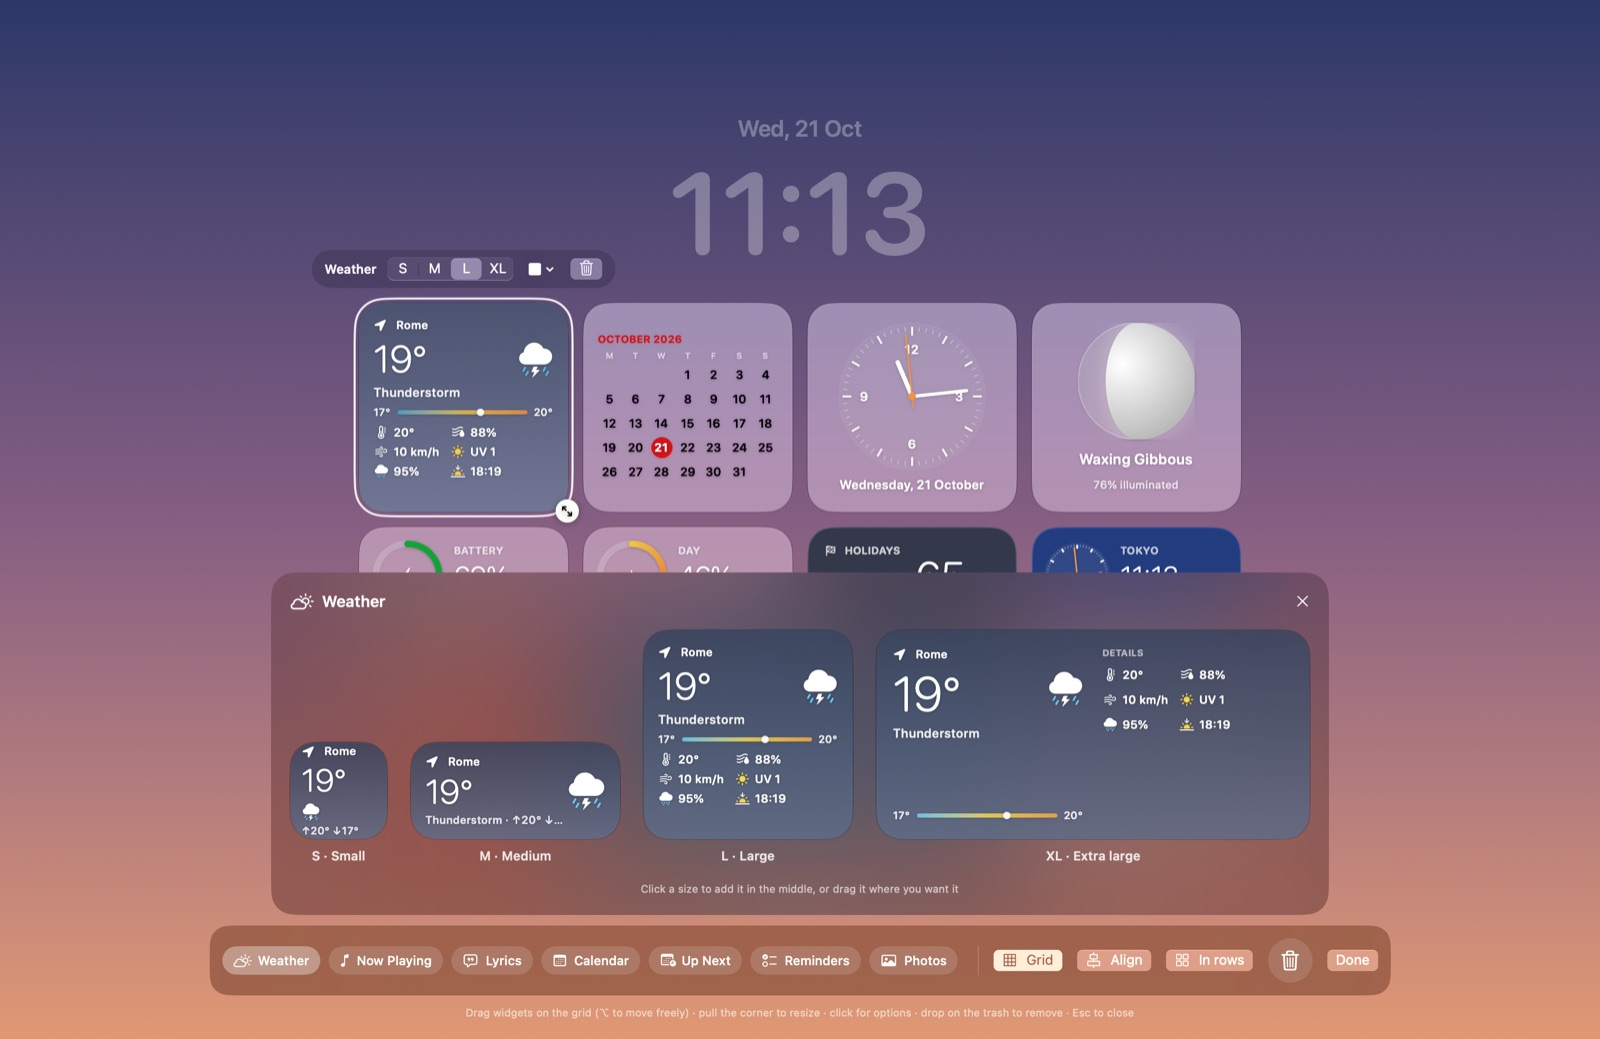
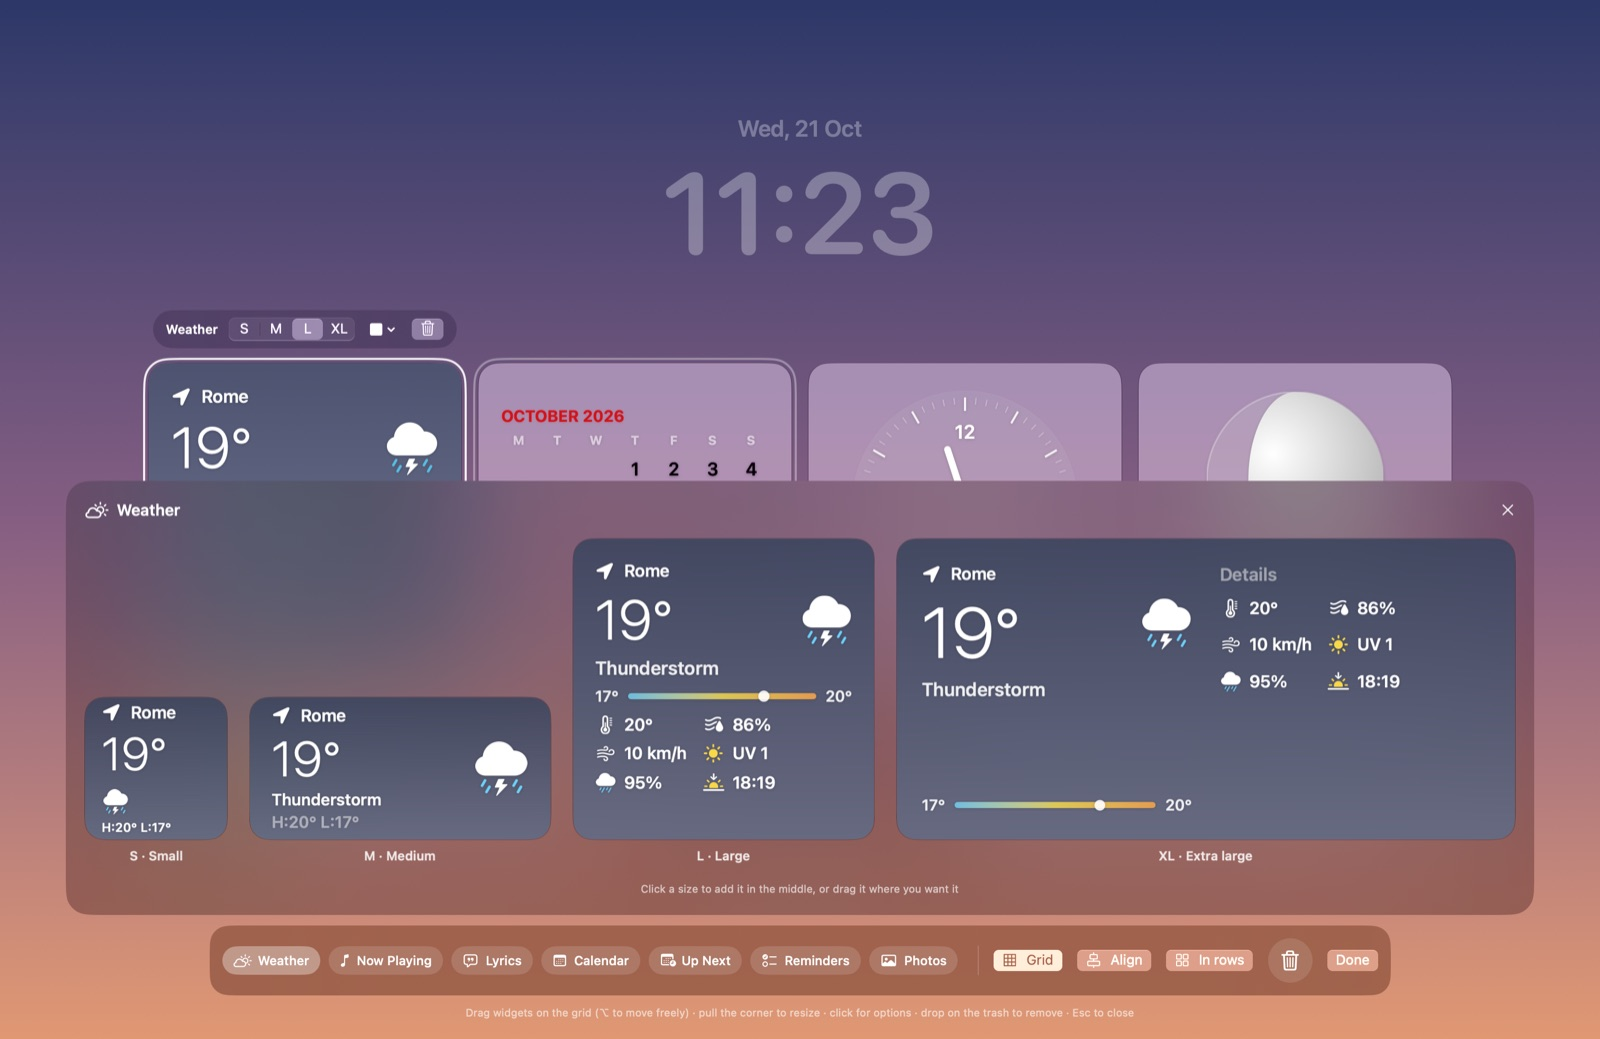
Widget con le proporzioni e la tipografia di macOS
Widget piccolo da 140 pt a scala 1, raggio degli angoli e spaziature
nelle proporzioni dei widget di macOS; SF Pro come carattere predefinito;
intestazioni in grigio secondario al posto del maiuscoletto; meteo con
H:/L: come in macOS; luna senza alone. Screenshot del README aggiornati.

Changed region(s): [[0.0312, 0.2464, 0.9688, 0.8932], [0.4062, 0.154, 0.5938, 0.2464]]

diff --git a/Sources/Bacheca/Widgets.swift b/Sources/Bacheca/Widgets.swift
@@ -308,7 +308,7 @@ private struct WeatherWidget: View {
                     Text("\(Int(w.temperature.rounded()))°").font(.system(size: 30 * s, weight: .light))
                     Spacer(minLength: 0)
                     Image(systemName: w.symbol).symbolRenderingMode(.multicolor).font(.system(size: 14 * s))
-                    Text("↑\(Int(w.max.rounded()))° ↓\(Int(w.min.rounded()))°").font(.system(size: 10 * s, weight: .semibold)).opacity(0.85)
+                    Text(highLow(w)).font(.system(size: 10 * s, weight: .semibold)).lineLimit(1).minimumScaleFactor(0.8)
                 }
                 .frame(maxWidth: .infinity, maxHeight: .infinity, alignment: .topLeading)
                 .padding(11 * s)
@@ -317,8 +317,8 @@ private struct WeatherWidget: View {
                     VStack(alignment: .leading, spacing: 2 * s) {
                         cityLabel
                         Text("\(Int(w.temperature.rounded()))°").font(.system(size: 32 * s, weight: .light))
-                        Text("\(w.label) · ↑\(Int(w.max.rounded()))° ↓\(Int(w.min.rounded()))°")
-                            .font(.system(size: 10.5 * s, weight: .semibold)).opacity(0.85).lineLimit(1)
+                        Text(w.label).font(.system(size: 10.5 * s, weight: .semibold)).lineLimit(1)
+                        Text(highLow(w)).font(.system(size: 10.5 * s, weight: .semibold)).foregroundStyle(.secondary).lineLimit(1)
                     }
                     Spacer(minLength: 0)
                     Image(systemName: w.symbol).symbolRenderingMode(.multicolor).font(.system(size: 30 * s))
@@ -341,7 +341,7 @@ private struct WeatherWidget: View {
                     }
                     .frame(maxWidth: .infinity, maxHeight: .infinity, alignment: .topLeading)
                     VStack(alignment: .leading, spacing: 8 * s) {
-                        Text(tr("DETTAGLI", "DETAILS")).font(.system(size: 9 * s, weight: .bold)).opacity(0.6)
+                        Text(tr("Dettagli", "Details")).font(.system(size: 11.5 * s, weight: .semibold)).foregroundStyle(.secondary)
                         stats(w, spacing: 9)
                     }
                     .frame(maxWidth: .infinity, maxHeight: .infinity, alignment: .topLeading)
@@ -354,6 +354,12 @@ private struct WeatherWidget: View {
                 Text(failed ? tr("Meteo non disponibile", "Weather unavailable") : tr("Caricamento…", "Loading…")).font(.system(size: 11 * s, weight: .semibold))
             }
         }
+    }
+
+    /// "H:20° L:13°", as macOS writes it.
+    private func highLow(_ w: WeatherNow) -> String {
+        let hi = Int(w.max.rounded()), lo = Int(w.min.rounded())
+        return tr("Max \(hi)° Min \(lo)°", "H:\(hi)° L:\(lo)°")
     }
 
     private var cityLabel: some View {
@@ -589,7 +595,7 @@ private struct EventsWidget: View {
         let s = m.s
         VStack(alignment: .leading, spacing: 4 * s) {
             Label(tr("Prossimi eventi", "Up Next"), systemImage: "calendar")
-                .font(.system(size: 10 * s, weight: .bold)).textCase(.uppercase).opacity(0.75).lineLimit(1)
+                .font(.system(size: 11.5 * s, weight: .semibold)).foregroundStyle(.secondary).lineLimit(1)
             if !access {
                 Text(tr("Consenti l'accesso dalle impostazioni", "Allow access in Settings")).font(.system(size: 12 * s, weight: .semibold))
             } else if events.isEmpty {
@@ -645,7 +651,7 @@ private struct RemindersWidget: View {
         } else {
             VStack(alignment: .leading, spacing: 4 * s) {
                 Label(tr("Promemoria", "Reminders"), systemImage: "checklist")
-                    .font(.system(size: 10 * s, weight: .bold)).textCase(.uppercase).opacity(0.75)
+                    .font(.system(size: 11.5 * s, weight: .semibold)).foregroundStyle(.secondary)
                 if !access {
                     Text(tr("Consenti l'accesso dalle impostazioni", "Allow access in Settings")).font(.system(size: 12 * s, weight: .semibold))
                 } else if reminders.isEmpty {
@@ -714,7 +720,7 @@ private struct Gauge: View {
                 }
                 .frame(width: 60 * s, height: 60 * s)
                 VStack(alignment: .leading, spacing: 2 * s) {
-                    Text(label).font(.system(size: 10 * s, weight: .bold)).textCase(.uppercase).opacity(0.7)
+                    Text(label).font(.system(size: 11.5 * s, weight: .semibold)).foregroundStyle(.secondary)
                     Text(value).font(.system(size: (size == .wide ? 40 : 26) * s, weight: .light))
                     Text(detail).font(.system(size: 10.5 * s, weight: .semibold)).opacity(0.8).lineLimit(1).minimumScaleFactor(0.75)
                     if size == .wide {
@@ -766,7 +772,7 @@ private struct MoonWidget: View {
             HStack(spacing: 16 * s) {
                 MoonView(phase: p).frame(width: (size == .wide ? 150 : 64) * s, height: (size == .wide ? 150 : 64) * s)
                 VStack(alignment: .leading, spacing: 3 * s) {
-                    Text(tr("LUNA", "MOON")).font(.system(size: 10 * s, weight: .bold)).opacity(0.7)
+                    Text(tr("Luna", "Moon")).font(.system(size: 11.5 * s, weight: .semibold)).foregroundStyle(.secondary)
                     Text(moonName(p)).font(.system(size: (size == .wide ? 22 : 15) * s, weight: .semibold))
                     Text(tr("Illuminata al \(lit)%", "\(lit)% illuminated")).font(.system(size: 10.5 * s, weight: .medium)).opacity(0.8)
                     Text(toFull == 0 ? tr("Luna piena oggi", "Full moon today")
@@ -797,7 +803,7 @@ private struct CountdownWidget: View {
         case .small:
             VStack(spacing: 2 * s) {
                 Text("\(abs(days))").font(.system(size: 30 * s, weight: .bold))
-                Text(unit.uppercased()).font(.system(size: 8 * s, weight: .bold)).opacity(0.75)
+                Text(unit).font(.system(size: 9.5 * s, weight: .semibold)).foregroundStyle(.secondary)
                 Text(label).font(.system(size: 10 * s, weight: .semibold)).lineLimit(1).opacity(0.85)
             }
             .padding(.horizontal, 8 * s)
@@ -805,7 +811,7 @@ private struct CountdownWidget: View {
             VStack(spacing: 4 * s) {
                 Image(systemName: "flag.checkered").font(.system(size: 18 * s))
                 Text("\(abs(days))").font(.system(size: 64 * s, weight: .light))
-                Text(unit.uppercased()).font(.system(size: 10 * s, weight: .bold)).opacity(0.75)
+                Text(unit).font(.system(size: 12 * s, weight: .semibold)).foregroundStyle(.secondary)
                 Text(label).font(.system(size: 15 * s, weight: .semibold)).lineLimit(1)
                 Text(dateText).font(.system(size: 10.5 * s, weight: .medium)).opacity(0.7)
             }
@@ -814,7 +820,7 @@ private struct CountdownWidget: View {
             HStack {
                 VStack(alignment: .leading, spacing: 2 * s) {
                     Label(label, systemImage: "flag.checkered")
-                        .font(.system(size: 10 * s, weight: .bold)).textCase(.uppercase).opacity(0.75).lineLimit(1)
+                        .font(.system(size: 11.5 * s, weight: .semibold)).foregroundStyle(.secondary).lineLimit(1)
                     Spacer(minLength: 0)
                     Text(dateText).font(.system(size: 11 * s, weight: .semibold)).opacity(0.8)
                 }
@@ -892,7 +898,7 @@ private struct NowPlayingWidget: View {
                     Image(systemName: "waveform").font(.system(size: 12 * s, weight: .semibold)).opacity(0.8)
                 }
             }
-            Text(music.artist ?? "").textCase(.uppercase)
+            Text(music.artist ?? "")
                 .font(.system(size: artistSize * s, weight: .semibold)).opacity(0.7).lineLimit(1)
         } else {
             Text(tr("Niente in riproduzione", "Nothing playing")).font(.system(size: 14 * s, weight: .bold))
@@ -974,7 +980,7 @@ private struct LyricsWidget: View {
             VStack(alignment: center ? .center : .leading, spacing: (sz == .wide || sz == .large ? 10 : 5) * s) {
                 if !item.bare && sz != .small {
                     Label(header, systemImage: "quote.bubble")
-                        .font(.system(size: 10 * s, weight: .bold)).textCase(.uppercase).opacity(0.75).lineLimit(1)
+                        .font(.system(size: 11.5 * s, weight: .semibold)).foregroundStyle(.secondary).lineLimit(1)
                 }
                 switch (music.title == nil, lyrics.state) {
                 case (true, _):
@@ -1045,7 +1051,7 @@ private struct ClockWidget: View {
                     ClockFace(date: ctx.date, timeZone: timeZone, seconds: true)
                         .frame(width: (size == .wide ? 160 : 62) * s, height: (size == .wide ? 160 : 62) * s)
                     VStack(alignment: .leading, spacing: 2 * s) {
-                        Text((title ?? tr("Ora locale", "Local time")).uppercased()).font(.system(size: 10 * s, weight: .bold)).opacity(0.7).lineLimit(1)
+                        Text(title ?? tr("Ora locale", "Local time")).font(.system(size: 11.5 * s, weight: .semibold)).foregroundStyle(.secondary).lineLimit(1)
                         Text(ctx.date, format: digital).font(.system(size: (size == .wide ? 52 : 26) * s, weight: .light))
                             .lineLimit(1).minimumScaleFactor(0.6)
                         Text(title == nil ? ctx.date.formatted(.dateTime.weekday(.wide).day().month(.wide)) : offsetText(timeZone, now: ctx.date))
@@ -1191,9 +1197,7 @@ struct MoonView: View {
                 lit.addLine(to: CGPoint(x: c.x + side * r * cos(t) * k, y: c.y + r * sin(t)))
             }
             lit.closeSubpath()
-            var glow = ctx
-            glow.addFilter(.shadow(color: .white.opacity(0.45), radius: r * 0.18))
-            glow.fill(lit, with: .radialGradient(
+            ctx.fill(lit, with: .radialGradient(
                 Gradient(colors: [.white, Color(white: 0.86), Color(white: 0.72)]),
                 center: CGPoint(x: c.x - side * r * 0.25, y: c.y - r * 0.3), startRadius: 0, endRadius: r * 1.4))
         }

diff --git a/Sources/Bacheca/Config.swift b/Sources/Bacheca/Config.swift
@@ -254,7 +254,7 @@ struct Config: Codable {
     var scale: Double = 1.0
     var style: CardStyle = .glass
     var accent: RGBA = .defaultAccent
-    var fontStyle: FontStyle = .rounded
+    var fontStyle: FontStyle = .standard
     /// Widgets snap to a centered grid in the studio, like iPhone home screen icons.
     var snapToGrid = true
     var weatherCity: String = tr("Milano", "Milan")
@@ -383,10 +383,15 @@ struct LayoutGrid {
 
 /// Card geometry shared by the lock screen, the studio and auto layout.
 struct Metrics {
+    /// Scale of everything inside a card. Contents are laid out against a 92 pt unit; the factor brings
+    /// a small widget to 140 pt at scale 1, with spacing and corner radius in the proportions of macOS widgets.
     let s: Double
+
+    init(s scale: Double) { s = scale * 140 / 92 }
+
     var unit: CGFloat { 92 * s }
-    var gap: CGFloat { 14 * s }
-    var radius: CGFloat { 24 * s }
+    var gap: CGFloat { 10.5 * s }
+    var radius: CGFloat { 12.5 * s }
     func size(_ size: WidgetSize) -> CGSize {
         CGSize(width: unit * CGFloat(size.cols) + gap * CGFloat(size.cols - 1),
                height: unit * CGFloat(size.rows) + gap * CGFloat(size.rows - 1))
